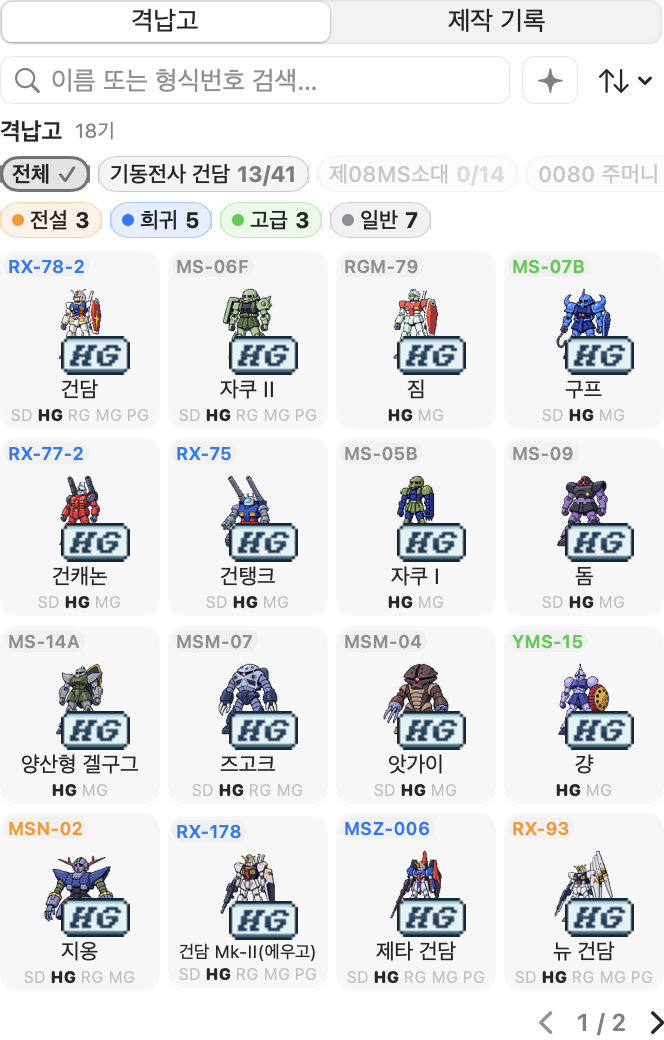
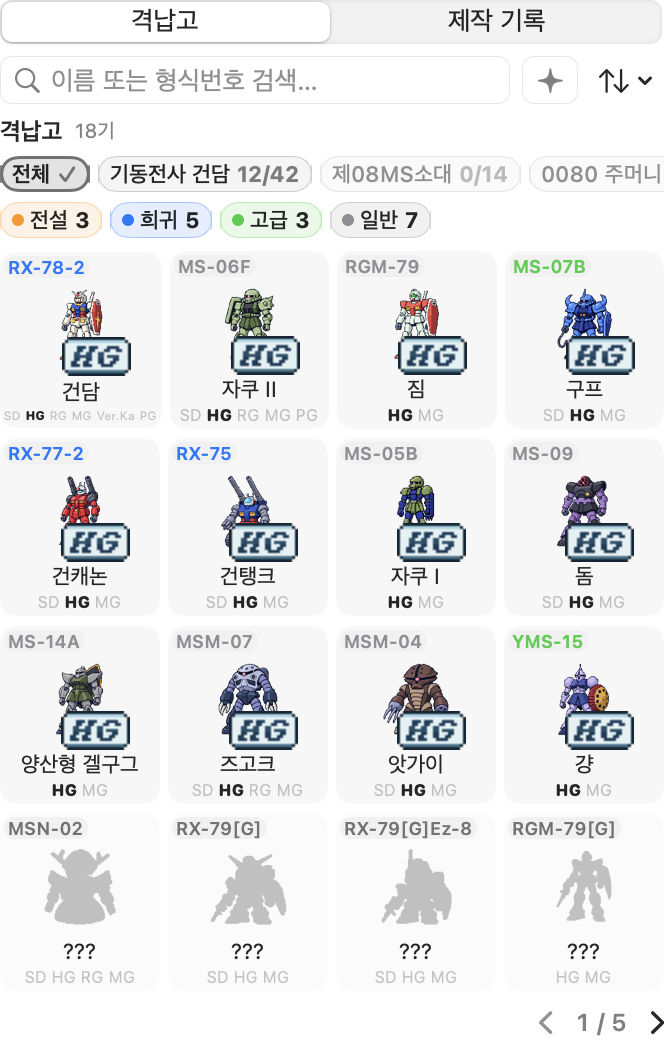
landing: show the eight-series hangar with silhouettes for 0.4.0

diff --git a/index.html b/index.html
@@ -57,13 +57,13 @@
   </div>
 
   <figure>
-    <img id="hangar" src="assets/hangar.png" alt="The hangar, listing mobile suits from seven Universal Century series" data-i18n-alt="hangarAlt">
+    <img id="hangar" src="assets/hangar.png" alt="The hangar, listing mobile suits from eight Universal Century works, with unbuilt suits as silhouettes" data-i18n-alt="hangarAlt">
   </figure>
 
   <ul>
     <li data-i18n-html="unbox"><strong>Unbox:</strong> the tokens you spend in Claude Code, Codex, Gemini CLI and more open a Kit Box, and a mobile suit comes out.</li>
     <li data-i18n-html="grade"><strong>Grade up:</strong> keep coding and the suit climbs through the kit grades actually released for it, SD to PG.</li>
-    <li data-i18n-html="hangar"><strong>Hangar:</strong> completed suits are saved by series, and commander and ace customs appear as rare variants.</li>
+    <li data-i18n-html="hangar"><strong>Hangar:</strong> completed suits are saved by series, suits you have not built yet show as silhouettes, and commander and ace customs appear as rare variants.</li>
   </ul>
   <p data-i18n="requires">Requires macOS 14 or later. The app is not notarized, so right-click it and choose Open on first launch.</p>
 
@@ -81,11 +81,11 @@
       tagline: "Turn your AI coding tokens into Gunpla, right in your macOS menu bar.",
       download: "Download the latest release",
       github: "View on GitHub",
-      hangarAlt: "The hangar, listing mobile suits from seven Universal Century series",
+      hangarAlt: "The hangar, listing mobile suits from eight Universal Century works, with unbuilt suits as silhouettes",
       hangarImage: "assets/hangar.png",
       unbox: "<strong>Unbox:</strong> the tokens you spend in Claude Code, Codex, Gemini CLI and more open a Kit Box, and a mobile suit comes out.",
       grade: "<strong>Grade up:</strong> keep coding and the suit climbs through the kit grades actually released for it, SD to PG.",
-      hangar: "<strong>Hangar:</strong> completed suits are saved by series, and commander and ace customs appear as rare variants.",
+      hangar: "<strong>Hangar:</strong> completed suits are saved by series, suits you have not built yet show as silhouettes, and commander and ace customs appear as rare variants.",
       requires: "Requires macOS 14 or later. The app is not notarized, so right-click it and choose Open on first launch.",
       disclaimer: "Unofficial, non-commercial fan project. Not affiliated with Bandai Namco or Sunrise. All rights to the original works belong to their owners.",
       fork: "Forked from " + upstream + " by chattymin."
@@ -95,11 +95,11 @@
       tagline: "AI 코딩 토큰을 macOS 메뉴바에서 건프라로 바꿔 보세요.",
       download: "최신 릴리스 내려받기",
       github: "GitHub에서 보기",
-      hangarAlt: "우주세기 일곱 작품의 기체가 늘어선 격납고 화면",
+      hangarAlt: "우주세기 여덟 작품의 기체와 아직 만들지 않은 기체의 실루엣이 늘어선 격납고 화면",
       hangarImage: "assets/hangar-ko.png",
       unbox: "<strong>개봉:</strong> Claude Code, Codex, Gemini CLI 등에서 쓴 토큰으로 건프라 박스가 열리고 기체가 나옵니다.",
       grade: "<strong>등급 업:</strong> 계속 코딩하면 그 기체로 실제 출시된 키트 등급을 따라 SD부터 PG까지 올라갑니다.",
-      hangar: "<strong>격납고:</strong> 완성한 기체는 작품별로 보존되고, 지휘관기·에이스 전용기는 희귀한 변형으로 나옵니다.",
+      hangar: "<strong>격납고:</strong> 완성한 기체는 작품별로 보존되고, 아직 만들지 않은 기체는 실루엣으로 보이며, 지휘관기·에이스 전용기는 희귀한 변형으로 나옵니다.",
       requires: "macOS 14 이상이 필요합니다. Apple 공증을 받지 않은 앱이라 처음 실행할 때는 앱을 우클릭하고 「열기」를 누르세요.",
       disclaimer: "비공식 비영리 팬 프로젝트입니다. 반다이남코·선라이즈와 무관하며, 원저작물의 모든 권리는 각 원저작자에게 있습니다.",
       fork: "chattymin의 " + upstream + "를 포크했습니다."
@@ -109,11 +109,11 @@
       tagline: "AI コーディングのトークンを、macOS メニューバーでガンプラに変えよう。",
       download: "最新リリースをダウンロード",
       github: "GitHub で見る",
-      hangarAlt: "宇宙世紀 7 作品の機体が並ぶ格納庫の画面",
+      hangarAlt: "宇宙世紀 8 作品の機体と、まだ作っていない機体のシルエットが並ぶ格納庫の画面",
       hangarImage: "assets/hangar-ja.png",
       unbox: "<strong>開封:</strong> Claude Code・Codex・Gemini CLI などで使ったトークンでキットボックスが開き、機体が登場します。",
       grade: "<strong>グレードアップ:</strong> コーディングを続けると、その機体で実際に発売されたキットのグレードを SD から PG まで上がっていきます。",
-      hangar: "<strong>格納庫:</strong> 完成した機体は作品ごとに保存され、指揮官機・エース専用機はレアな変種として登場します。",
+      hangar: "<strong>格納庫:</strong> 完成した機体は作品ごとに保存され、まだ作っていない機体はシルエットで表示され、指揮官機・エース専用機はレアな変種として登場します。",
       requires: "macOS 14 以降が必要です。Apple の公証を受けていないため、初回起動時はアプリを右クリックして「開く」を選んでください。",
       disclaimer: "非公式・非営利のファンプロジェクトです。バンダイナムコ・サンライズとは無関係です。原作品の権利はすべて各権利者に帰属します。",
       fork: "chattymin 氏の " + upstream + " のフォークです。"
